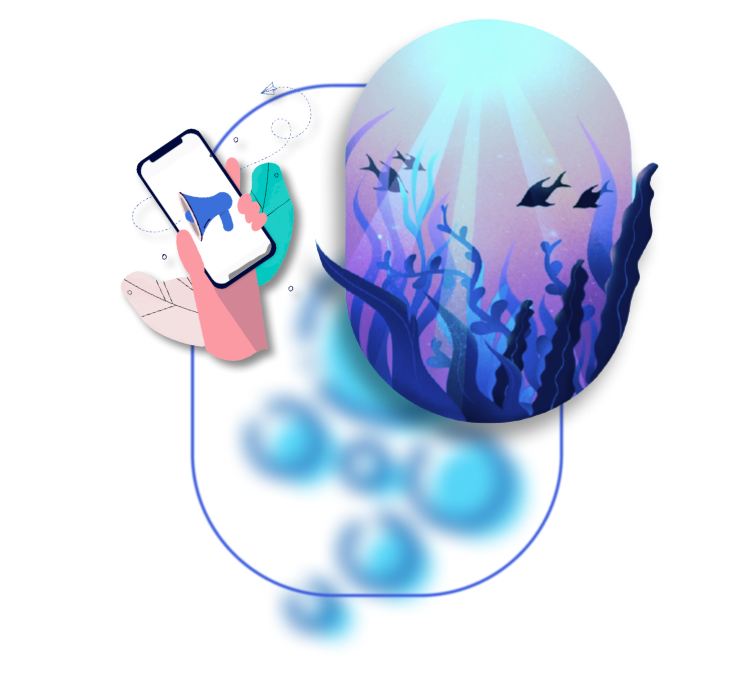
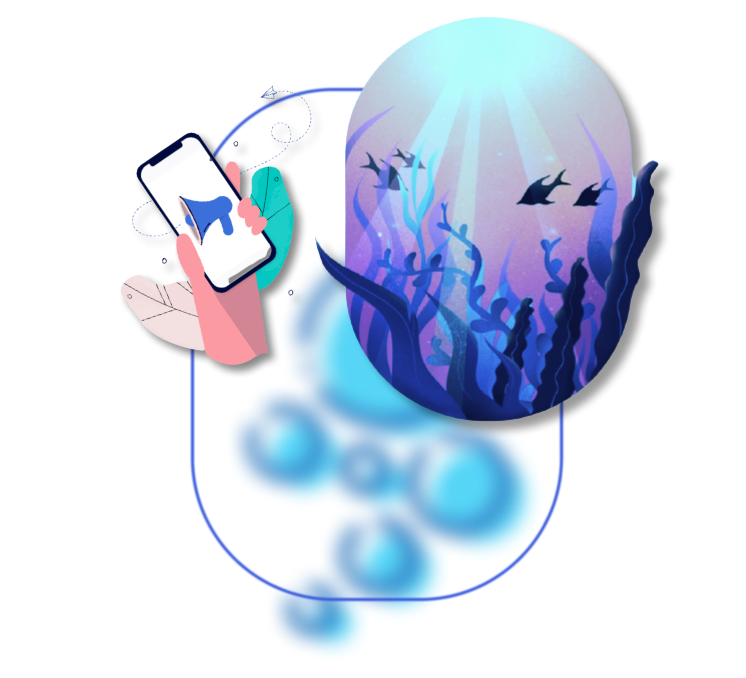
fix images

diff --git a/src/scss/service.scss b/src/scss/service.scss
@@ -13,6 +13,15 @@
     margin: 0 auto;
 }
 
+.service__img {
+    width: 100%;
+    max-width: 500px;
+    & img {
+        width: 100%;
+        max-width: 500px;
+    }
+}
+
 .service__smalltitle {
     font-size: $smalltext;
     font-weight: 300;
@@ -296,7 +305,10 @@ label:after {
         display: none;
     }
     .msk {
-        padding-top: 25px !important;
+        padding-top: 35px !important;
+    }
+    .sp {
+        padding-top: 25px !important
     }
     .service__toggle-title {
         padding-top: 10px;
@@ -322,6 +334,9 @@ label:after {
         padding-left: 10px;
         padding-right: 10px;
     }
+    .service__title {
+        font-size: 36px;
+    }
 }
 
 @media screen and (max-width: 375px) {
@@ -329,6 +344,7 @@ label:after {
         padding-top: 10px;
         width: 100px;
         font-size: 14px;
+        line-height: 20px;
     }
     .service__toggle-wrapper {
         width: 300px;

diff --git a/src/scss/contacts.scss b/src/scss/contacts.scss
@@ -2,8 +2,9 @@
     width: 100%;
     max-width: 1384px;
     margin: 0 auto;
-    margin-bottom: 100px;
-    background: url(../../src/img/contact02.png) no-repeat;
+    padding-bottom: 50px;
+    margin-bottom: 50px;
+    background: url(../../src/img/contacts02.png) no-repeat;
     background-position: bottom right;
     & h1 {
         font-size: $title;
